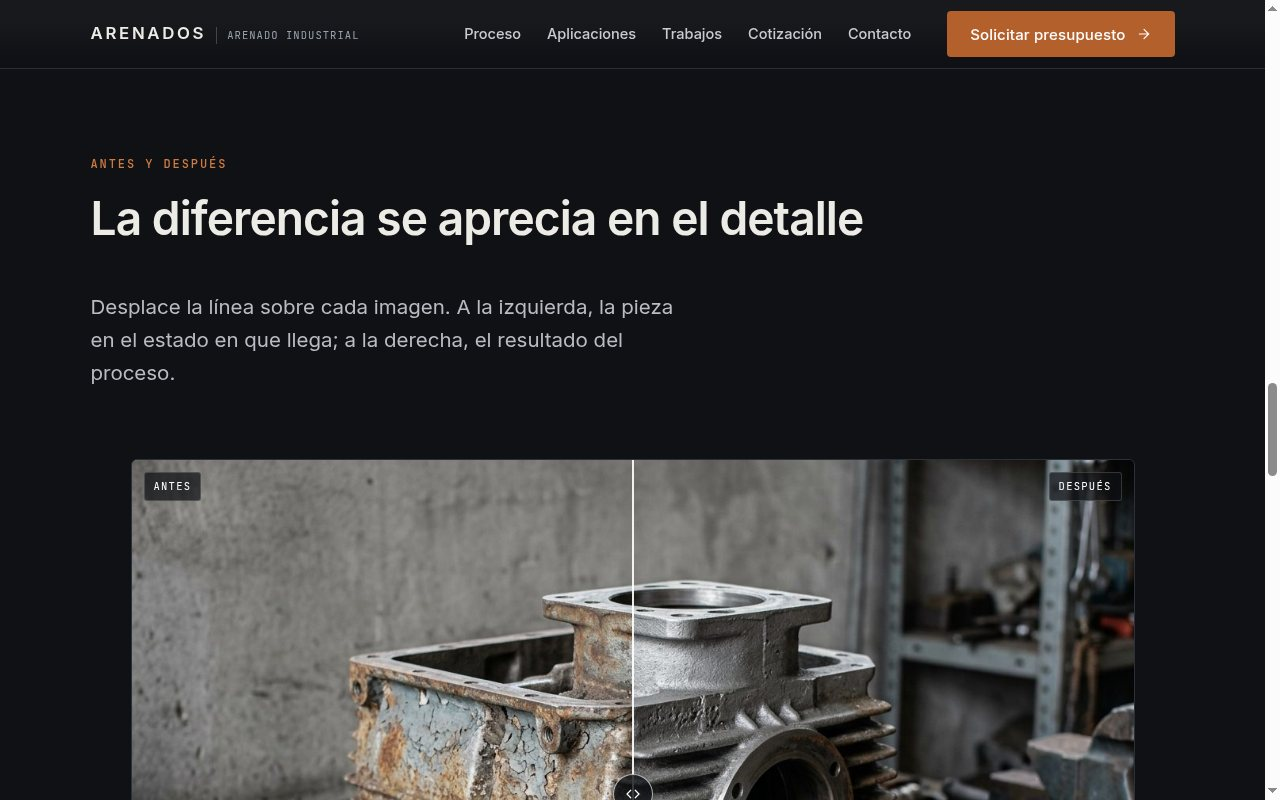
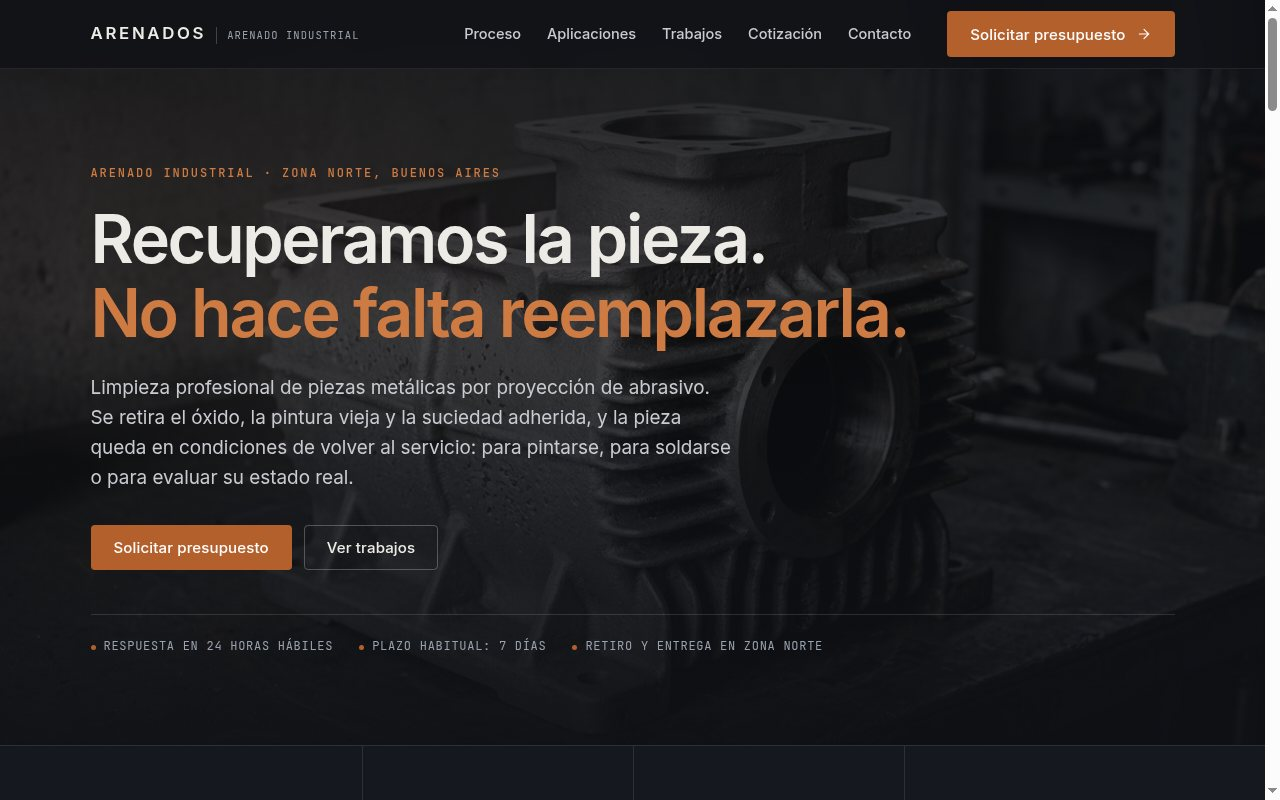
fix: ruta de la imagen de fondo de la portada; README al día

diff --git a/styles.css b/styles.css
@@ -207,7 +207,7 @@ select:focus-visible, textarea:focus-visible {
   position: absolute;
   inset: 0;
   z-index: -2;
-  background-image: url("assets/cartera-compresor-despues.jpg");
+  background-image: url("assets/carter-compresor-despues.jpg");
   background-size: cover;
   background-position: 62% 42%;
   filter: grayscale(.35) contrast(1.02) brightness(.62);

diff --git a/README.md b/README.md
@@ -99,8 +99,7 @@ Es un sitio estático: no necesita servidor de aplicaciones ni base de datos.
   directorio de salida que configurar.
 - **GitHub Pages**: requiere repositorio público, rama `main` y carpeta raíz.
 
-Conviene cachear `assets/` por mucho tiempo y `index.html` por poco, para no servir versiones
-viejas.
+Para no servir versiones viejas, `assets/` va con caché larga e `index.html` con caché corta.
 
 ## Contenido
 
